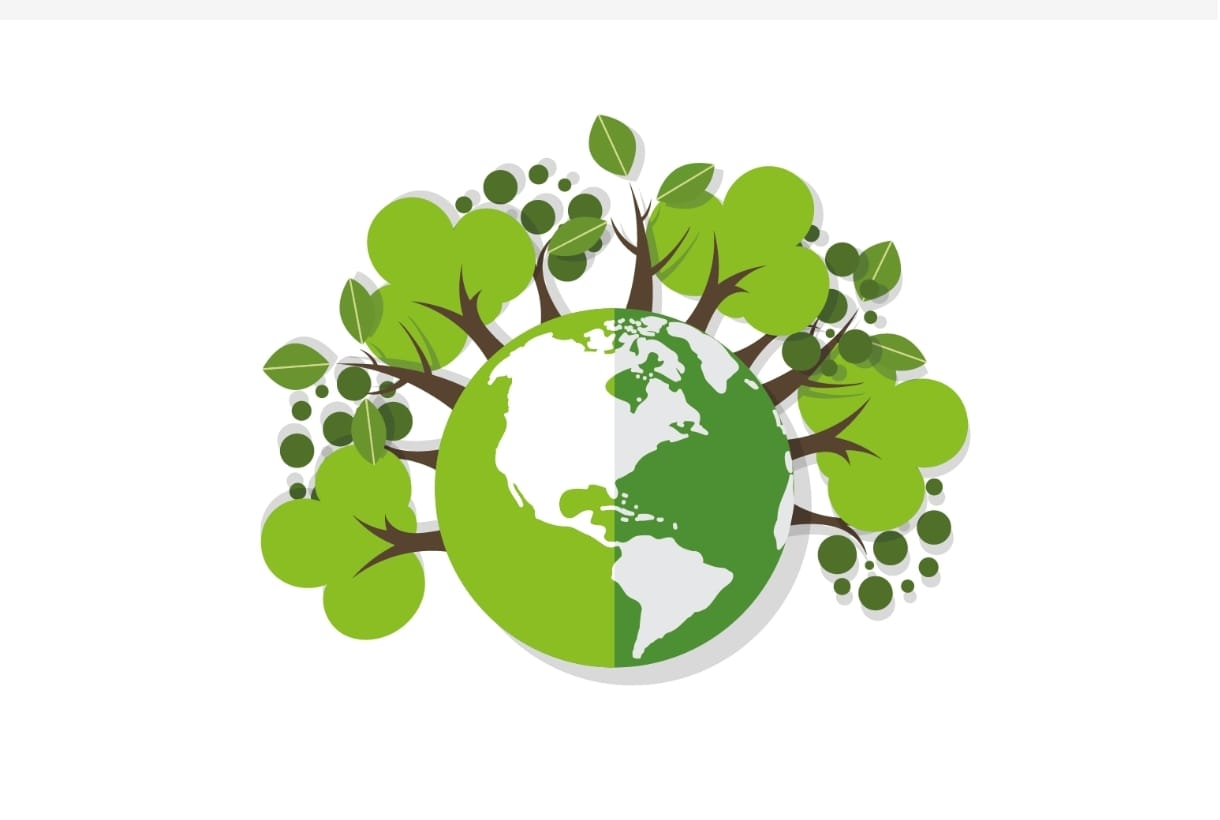
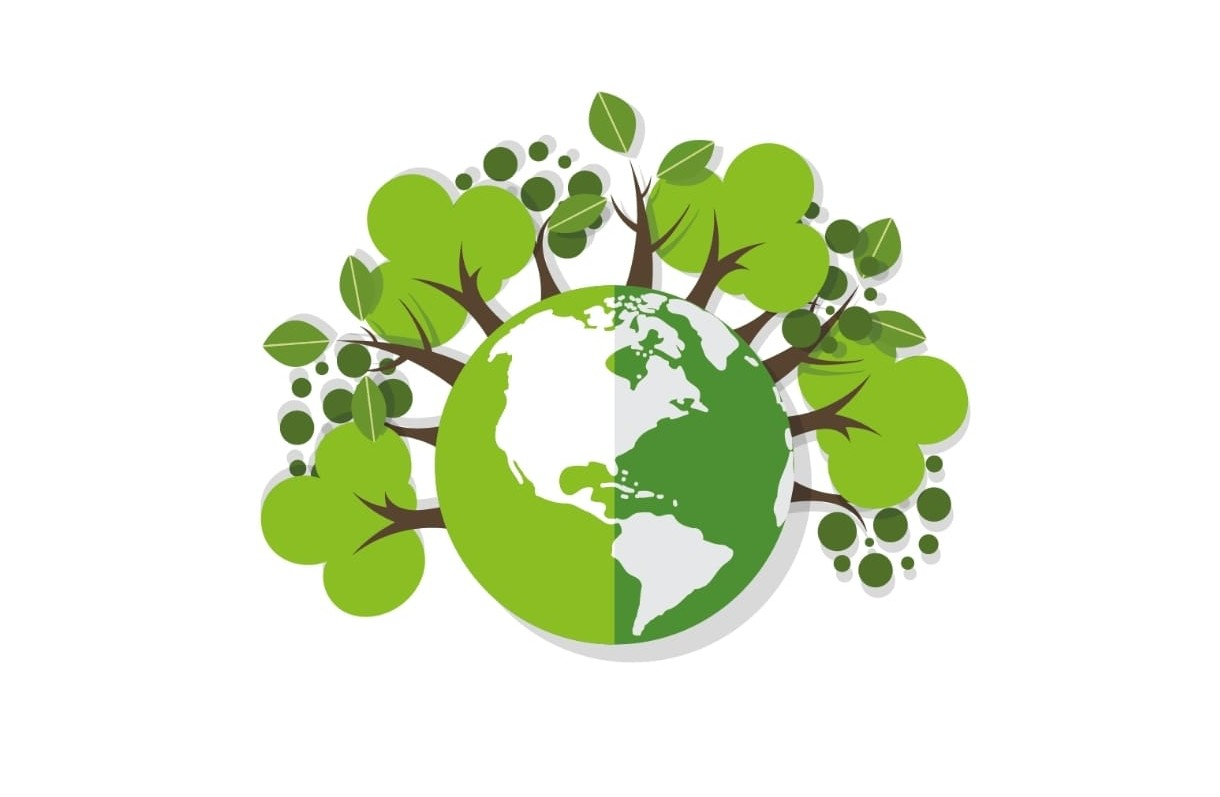
correccion de imagenes

diff --git a/index.html b/index.html
@@ -120,7 +120,7 @@
   <h2 class="manrope-bold">Consejos para reciclar mejor</h2>
   
   <div id="imagen_central">
-    <img src="imagenes pruebas/mundo arbol.jpg" alt="">  <!--falta imagen-->
+    <img src="assets/images/img_3.jpg" alt="">  <!--falta imagen-->
   </div>
 
   <div>
